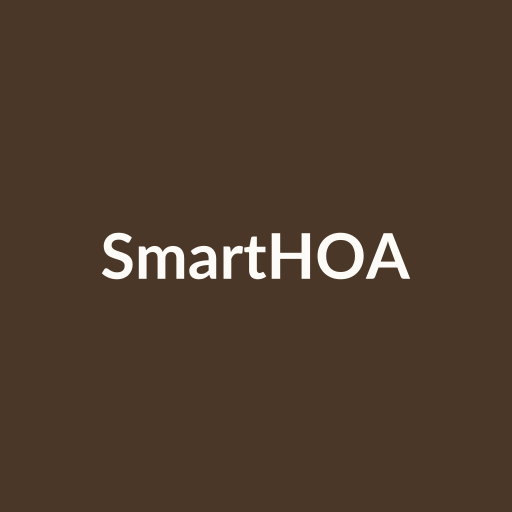
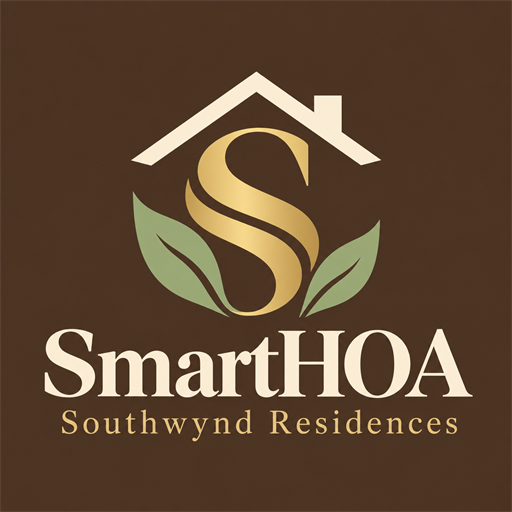
Add SmartHOA Southwynd app branding

Changed region(s): [[0.0625, 0.125, 0.9375, 0.875]]

diff --git a/frontend/vite.config.ts b/frontend/vite.config.ts
@@ -12,10 +12,10 @@ export default defineConfig({
       strategies: 'injectManifest',
       srcDir: 'src',
       filename: 'service-worker.ts',
-      includeAssets: ['favicon.ico', 'apple-touch-icon.png', 'masked-icon.svg'],
+      includeAssets: ['smarthoa-app-icon.png', 'apple-touch-icon.png'],
       manifest: {
         id: '/',
-        name: 'SmartHOA - Community Management',
+        name: 'SmartHOA - Southwynd Residences',
         short_name: 'SmartHOA',
         description: 'Modern Homeowners Association Management System',
         theme_color: '#4A3728', // The brown color used in the app

diff --git a/frontend/index.html b/frontend/index.html
@@ -2,8 +2,8 @@
 <html lang="en">
   <head>
     <meta charset="UTF-8" />
-    <link rel="icon" type="image/svg+xml" href="/favicon.svg" />
-    <link rel="apple-touch-icon" href="/pwa-192x192.png" />
+    <link rel="icon" type="image/png" href="/smarthoa-app-icon.png" />
+    <link rel="apple-touch-icon" href="/apple-touch-icon.png" />
     <meta name="viewport" content="width=device-width, initial-scale=1.0, maximum-scale=1.0, user-scalable=no" />
     <meta name="theme-color" content="#4A3728" />
     <meta name="description" content="Modern Homeowners Association Management System" />
